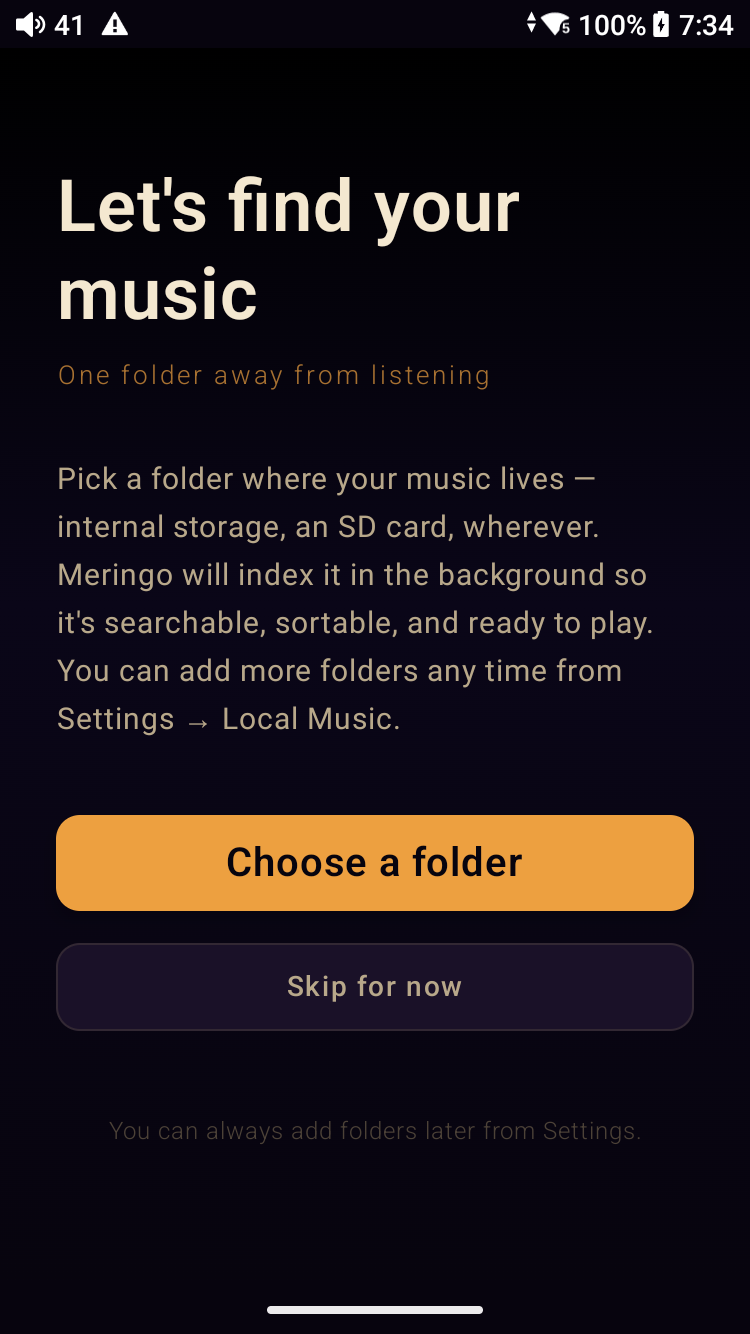
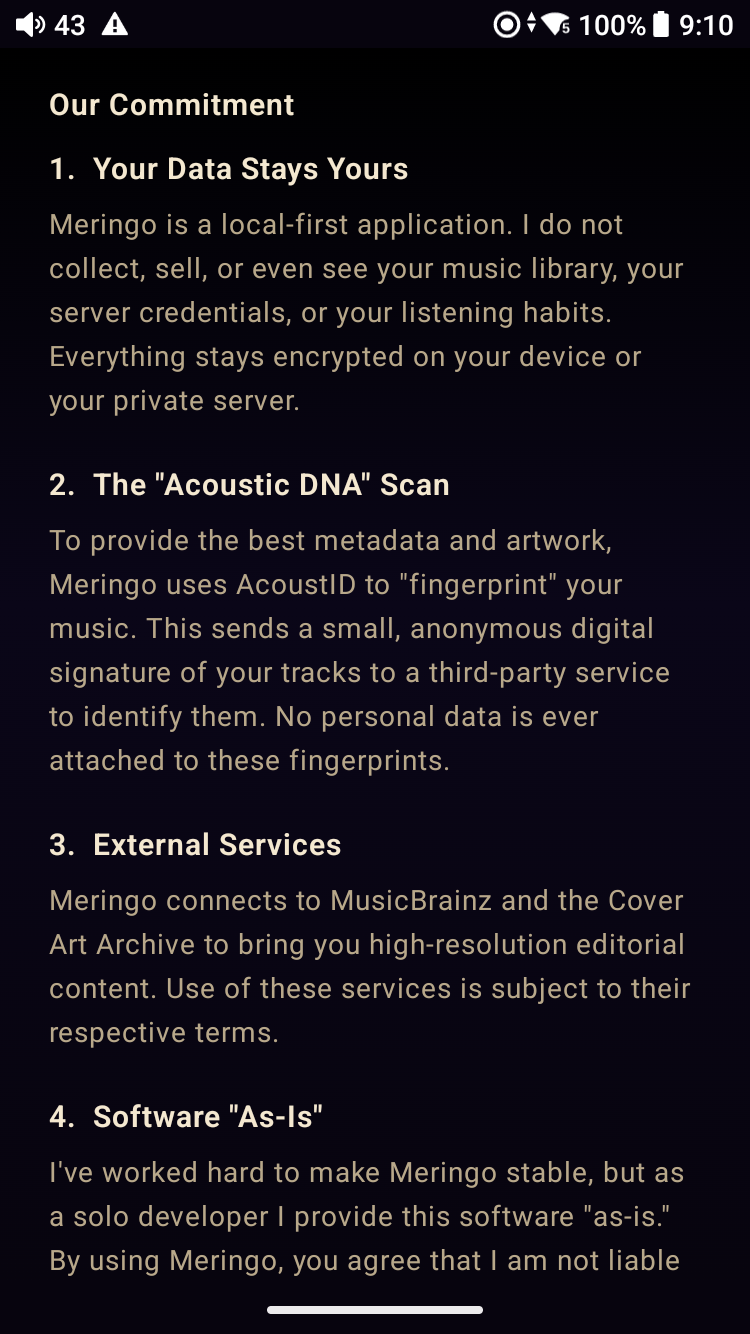
site: refresh hero now_playing + fix privacy hero to show Our Commitment terms
Two image swaps with associated copy updates, plus 5 new screenshots
stocked for future use.

now_playing.png (hero) — refreshed to a richer Now Playing capture:
ULTRA dynamic-range chip + EQ engaged on the album-art card, ♪ LYRICS
pill below the route line, full transport controls. Same track ('Hard
to See' by Men I Trust, 24-bit / 96 kHz from the Vault) so the route
claim in the floating spec-float card stays accurate. Alt text
extended to describe the new chips and pill.

onboarding.png (privacy hero) — swapped from the folder-picker
("Let's find your music") to the actual Our Commitment terms screen.
Fixes the discrepancy I flagged in the earlier privacy-hero pass:
the previous screenshot didn't show the AcoustID + MusicBrainz
disclosures the privacy section depends on. Copy rewritten to match
the new content — eyebrow now reads "First run · disclosed before
you tap", title "Our Commitment, on screen one", body explicitly
maps each of the four numbered terms to its sibling section in the
policy below. Same posture, now backed by the actual UI.

Previous folder-picker screenshot archived as
onboarding_folder_picker.png in case it earns a future home.

New assets stocked (not yet wired into the page):
- onboarding_welcome.png — top of onboarding, "Welcome to Meringo"
  with Inside Meringo feature previews
- onboarding_terms_bottom.png — bottom of terms screen with the
  three connect/play CTAs
- auth_jellyfin.png — Jellyfin server connect screen with mascot
[…]

diff --git a/index.html b/index.html
@@ -1823,7 +1823,7 @@ footer {
 
       <div class="hero-device" aria-label="Meringo Now Playing screen">
         <img src="assets/screens/now_playing.png"
-             alt="Meringo Now Playing — 'Hard to See' by Men I Trust, 24-bit / 96 kHz from the Vault">
+             alt="Meringo Now Playing — 'Hard to See' by Men I Trust, 24-bit / 96 kHz from the Vault. ULTRA dynamic-range chip + EQ engaged on the album-art card, ♪ LYRICS pill below the route line, full transport controls below the scrub bar">
       </div>
 
       <!-- Mascot — narrator (head + collar only) -->
@@ -2723,15 +2723,15 @@ footer {
 
     <div class="privacy-hero">
       <div class="privacy-hero-copy">
-        <p class="privacy-hero-eyebrow">First run · opt-in by gesture</p>
-        <h3 class="privacy-hero-title">You pick the <em>folder.</em></h3>
+        <p class="privacy-hero-eyebrow">First run · disclosed before you tap</p>
+        <h3 class="privacy-hero-title">Our Commitment, on screen <em>one.</em></h3>
         <p class="privacy-hero-body">
-          On first launch, Meringo doesn't enumerate your storage looking for music. It asks. The screen to the right is the actual UI you see — pick a folder, an SD card, wherever your library lives, and the indexer only touches what you point it at. Skip the picker and the app stays empty until you change your mind. Privacy starts at the file-system boundary; the policy below describes the rest of the surface.
+          Before any CTA loads — before you connect to Jellyfin, Subsonic, or pick a local folder — Meringo lays out exactly what it does with your data. <em>Your Data Stays Yours</em> (local-first storage). <em>The Acoustic DNA Scan</em> (AcoustID fingerprinting, opt-in). <em>External Services</em> (MusicBrainz + Cover Art Archive for editorial metadata). <em>Software As-Is</em> (a solo developer's honest disclaimer). The four headings on the screen to the right correspond one-to-one with the sections of the policy below. Same content, same wording, same posture.
         </p>
       </div>
       <div class="privacy-hero-device">
         <img src="assets/screens/onboarding.png"
-             alt="Meringo first-run folder picker — &lsquo;Let&rsquo;s find your music&rsquo; / &lsquo;One folder away from listening&rsquo; with Choose a folder and Skip for now buttons">
+             alt="Meringo first-run terms screen — &lsquo;Our Commitment&rsquo; with four numbered sections: 1. Your Data Stays Yours, 2. The Acoustic DNA Scan, 3. External Services (MusicBrainz + Cover Art Archive), 4. Software As-Is. Shown to every user before any Connect or Play CTA loads">
       </div>
     </div>
 